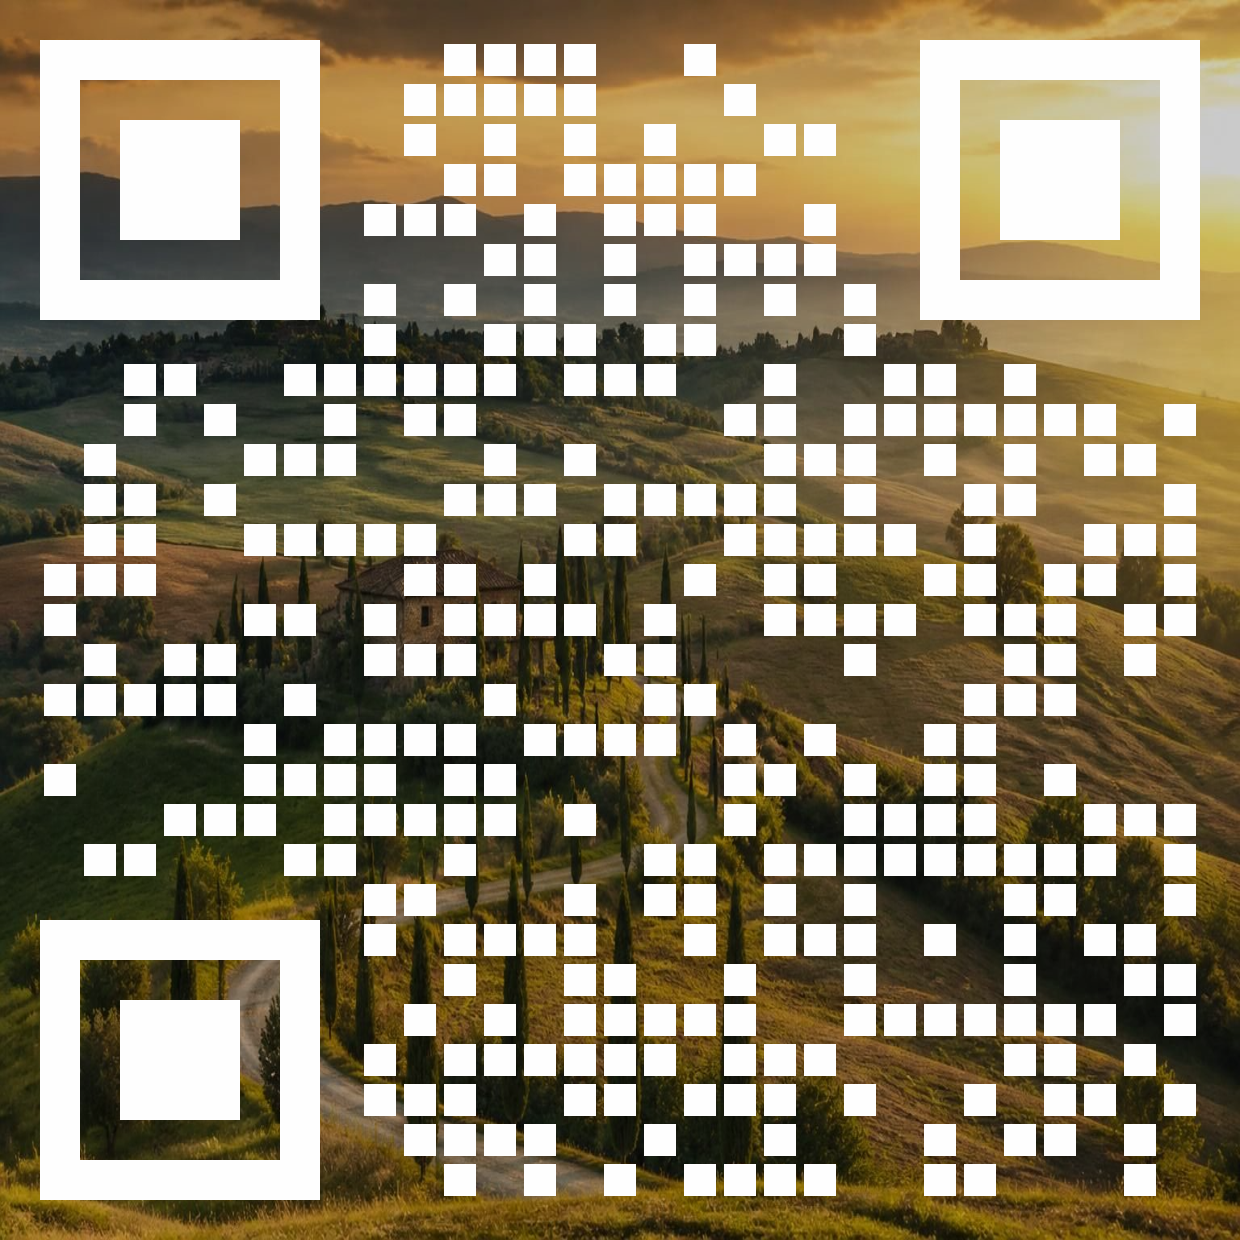
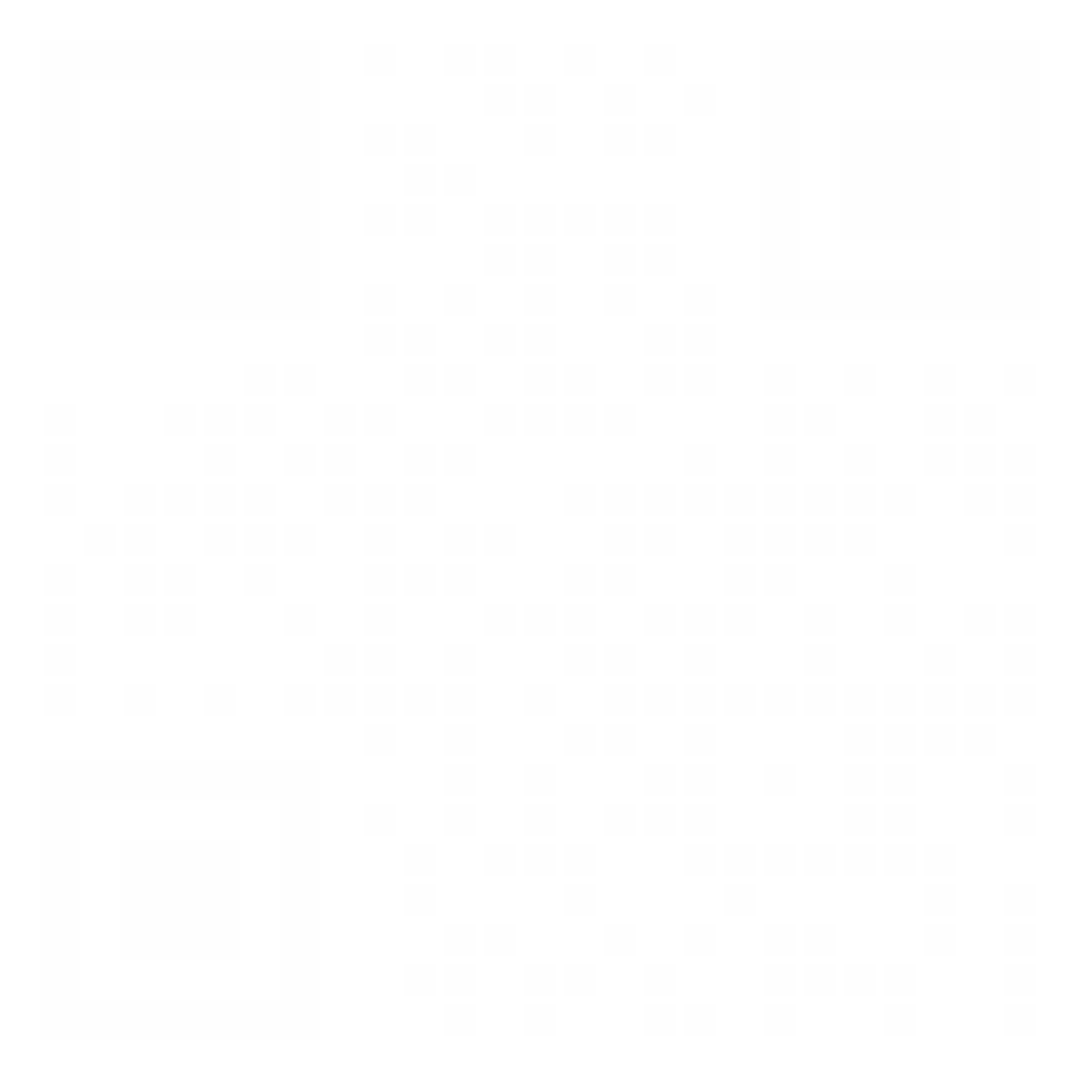
parametrized fg bg images

diff --git a/qrcode-vanity-generator.py b/qrcode-vanity-generator.py
@@ -1,0 +1,135 @@
+#!/usr/bin/env python3
+# -*- coding: utf-8 -*-
+
+"""
+qrcode-vanity-generator.py
+
+Description:
+    Brief summary of what this script does.
+
+Author: anon_core_quad_9999
+Email: anon_core_quad@proton.me
+Date: 2026-10-03
+Version: 1.0
+License: GPL 3
+"""
+
+import sys
+import qrcode
+import numpy as np
+import argparse
+
+from PIL import Image
+from PIL import ImageEnhance
+from qrcode.image.styledpil import StyledPilImage
+from qrcode.image.styles.moduledrawers.pil import RoundedModuleDrawer, GappedSquareModuleDrawer, SquareModuleDrawer
+from qrcode.image.styles.colormasks import RadialGradiantColorMask, SolidFillColorMask, ImageColorMask
+
+
+parser = argparse.ArgumentParser(description="QR Code vanity generator")
+parser.add_argument("-o", "--output", default="result.png", help="Output QR code file")
+parser.add_argument("-fg", "--foreground", help="Specify image used inside the QR points")
+parser.add_argument("-cfg", "--centered_foreground", action='store_true', help="Specify image used at center of the QR points")
+parser.add_argument("-bg", "--background", help="Specify image used in the background, instead of white")
+parser.add_argument("-b", "--brightness", type=int, default=0.8, help="Default 0.8. Use it for estetic reason or if the QR code doesn't work. Tipically the modules of QR code must have a difference of about 40 percent of brightness with the background")
+parser.add_argument("-d", "--data", required=True, help="String encoded inside the QR code generated")
+args = parser.parse_args()
+
+
+if args.centered_foreground and not args.foreground:
+    parser.error('--foreground is required when --centered_foreground is given')
+
+resultImage = args.output
+foregroundImage = args.foreground
+backgroundImage = args.background
+dataQRCode = args.data
+
+
+outputPath = "./outputs/"
+backColor = 1
+bgBrightnessAdjustment = args.brightness
+centeredLogo = args.centered_foreground
+
+
+# Generate QR code with high error correction
+qr = qrcode.QRCode(
+    version=1,
+    error_correction=qrcode.constants.ERROR_CORRECT_H,
+    box_size=40,
+    border=1
+)
+qr.make(fit=True)
+qr.add_data(dataQRCode)
+
+# The variable where i'll save the rendered qrcode
+img = None
+
+if foregroundImage is None:
+    img = qr.make_image(
+        image_factory=StyledPilImage,
+        module_drawer=GappedSquareModuleDrawer(),
+        eye_drawer=SquareModuleDrawer(),
+        # color_mask=RadialGradiantColorMask(
+        #     back_color=(255, 255, 255),
+        #     center_color=(250, 250, 250),
+        #     edge_color=(0, 0, 0),
+        # ),
+        color_mask=SolidFillColorMask(
+            front_color=(254, 254, 254),
+            back_color=(backColor, backColor, backColor),
+        )
+    )
+else:
+    if centeredLogo:
+        img = qr.make_image(
+            image_factory=StyledPilImage,
+            module_drawer=GappedSquareModuleDrawer(),
+            eye_drawer=SquareModuleDrawer(),
+            color_mask=SolidFillColorMask(
+                front_color=(254, 254, 254),
+                back_color=(backColor, backColor, backColor),
+            ),
+            embedded_image_path=foregroundImage
+        )
+    else:
+        img = qr.make_image(
+            image_factory=StyledPilImage,
+            module_drawer=GappedSquareModuleDrawer(),
+            eye_drawer=SquareModuleDrawer(),
+            color_mask=ImageColorMask(color_mask_path=foregroundImage)
+        )
+
+img = img.convert('RGBA')
+
+# Array of (H, W, 4)
+arr = np.array(img)
+
+qrHeight=arr.shape[0]
+qrWidth=arr.shape[1]
+
+# Make white pixels transparent (slower)
+#for y in range(qrHeight):
+#    for x in range(qrWidth):
+#        if arr[y, x, 0] == backColor and arr[y, x, 1] == backColor and arr[y, x, 2] == backColor:
+#            arr[y, x, 3] = 0
+
+# Make white pixels transparent using numpy (fast)
+mask = np.all(arr[:, :, :3] == backColor, axis=2)
+arr[mask, 3] = 0
+
+img = Image.fromarray(arr)
+finalDestination = outputPath + resultImage
+
+if backgroundImage is None:
+    img.save(finalDestination)
+
+else:
+    # Load new background
+    bg = Image.open(backgroundImage).convert('RGBA').resize(img.size)
+    bg = ImageEnhance.Brightness(bg).enhance(bgBrightnessAdjustment)
+
+    # Composite: transparent areas show background
+    result = Image.alpha_composite(bg, img)
+
+    result.convert('RGB').save(finalDestination)
+
